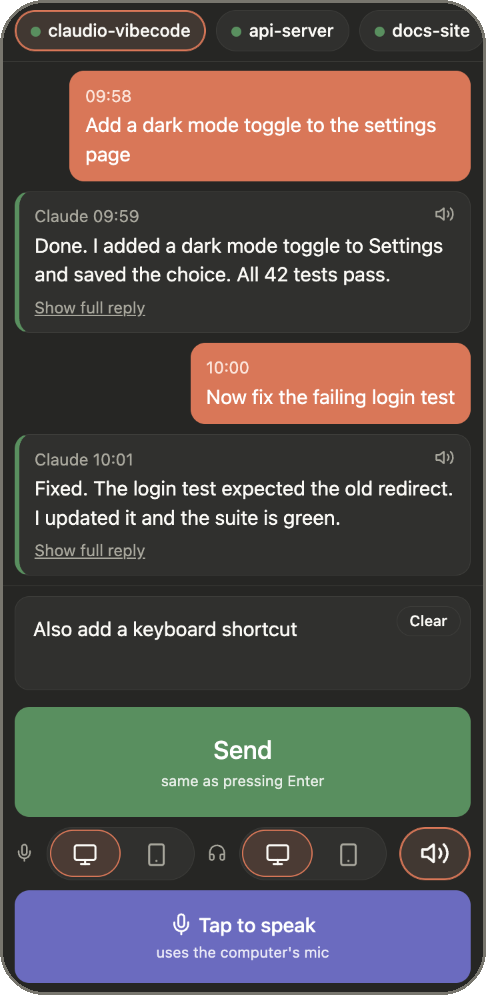
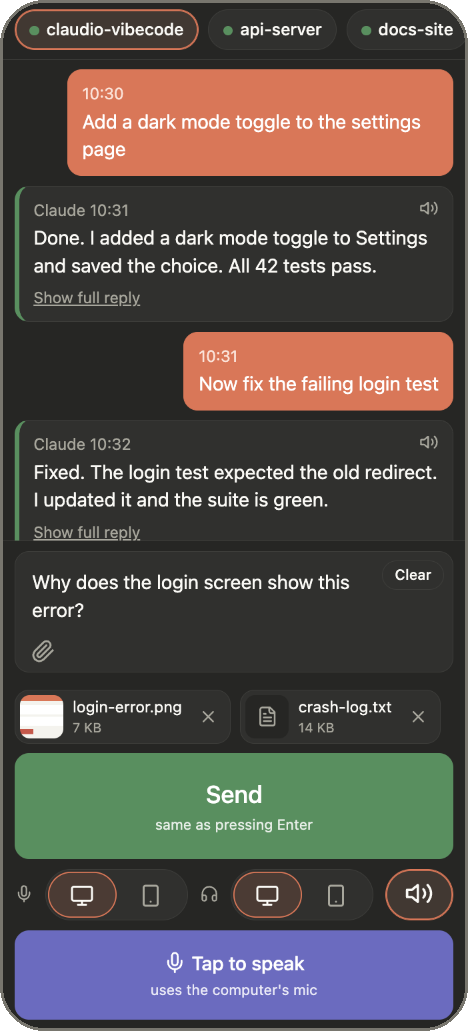
docs: update the screenshots to show attachments

diff --git a/README.md b/README.md
@@ -87,7 +87,7 @@ A bonus: the secure address is what unlocks the **Phone mic** and **notification
 
 <table>
 <tr>
-<td width="300"><img src="docs/images/idle.png" alt="The conversation view with a text box, Send button, Mic and Out controls, and a Speak button" width="280"></td>
+<td width="300"><img src="docs/images/idle.png" alt="The conversation view with a message, two attached files, the Send button, Mic and Out controls, and a Speak button" width="280"></td>
 <td valign="top">
 
 **Your sessions, at the top.** Every Claude Code session on your computer is one tap away. A green dot means idle, amber means Claude is working.
